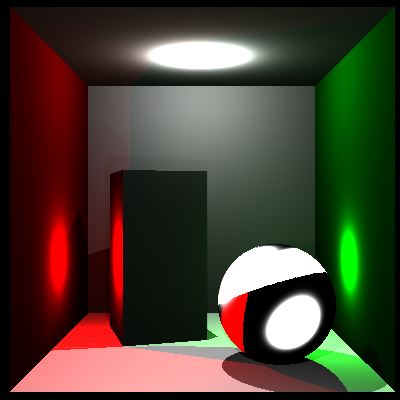
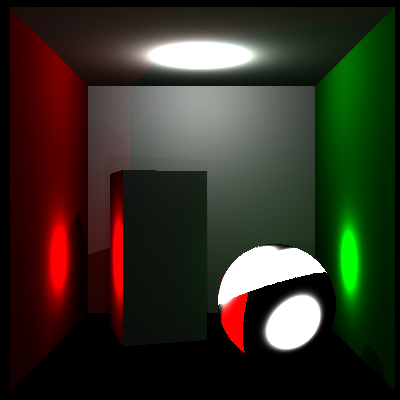
recRT

Changed region(s): [[0.03, 0.78, 0.99, 0.99]]

diff --git a/rt/integrators/recraytrace.cpp b/rt/integrators/recraytrace.cpp
@@ -8,34 +8,51 @@
 
 namespace rt
 {
-	RGBColor RecursiveRayTracingIntegrator::getRadiance(const Ray & ray) const
+	RGBColor RecursiveRayTracingIntegrator::getRadiance(const Ray & ray, int depth) const
 	{
-		Intersection intersection = this->world->scene->intersect(ray, MAX_DIST);
 		RGBColor color = RGBColor(0, 0, 0);
+		if (depth >= maxRecursionDepth)
+			return color;
+
+		Intersection intersection = this->world->scene->intersect(ray, MAX_DIST);
+
 		if (intersection)
 		{
 			Vector normal = intersection.normal().normalize();
 			if (dot(normal, ray.d.normalize()) > 0)
 				normal = -1.0f * normal;
 
-			auto solid = intersection.solid;
+			auto currentMaterial = intersection.solid->material;
+			auto outDir = ray.d.normalize();
 
-			for (auto lightSource : this->world->light)
+			if (currentMaterial->useSampling() == Material::Sampling::SAMPLING_NOT_NEEDED)
 			{
-				LightHit lightHit = lightSource->getLightHit(intersection.hitPoint());
+				for (auto lightSource : this->world->light)
+				{
+					LightHit lightHit = lightSource->getLightHit(intersection.hitPoint());
+					Vector inDir = lightHit.direction;
+					if (dot(inDir, normal) < 0)
+						continue;
 
-				if (dot(lightHit.direction, normal) < 0)
-					continue;
+					Ray shadowRay = Ray(intersection.hitPoint() + displacement * inDir, inDir);
+					Intersection shadowRayIntersection = this->world->scene->intersect(shadowRay, lightHit.distance);
+					if (shadowRayIntersection)
+						continue;
 
-				Ray shadowRay = Ray(intersection.hitPoint() + displacement * lightHit.direction, lightHit.direction);
-				Intersection shadowRayIntersection = this->world->scene->intersect(shadowRay, lightHit.distance);
-				if (shadowRayIntersection)
-					continue;
-
-				RGBColor reflected = solid->material->getReflectance(intersection.local(), normal, ray.d.normalize(), lightHit.direction);
-				color = color + reflected * lightSource->getIntensity(lightHit);
+					RGBColor reflected = currentMaterial->getReflectance(intersection.local(), normal, outDir, inDir);
+					color = color + reflected * lightSource->getIntensity(lightHit);
+				}
 			}
 
+			else if (currentMaterial->useSampling() == Material::Sampling::SAMPLING_ALL)
+			{
+				auto reflectance = currentMaterial->getSampleReflectance(intersection.local(), normal, outDir);
+				Vector inDir = reflectance.direction.normalize();
+				Ray shadowRay = Ray(intersection.hitPoint() + displacement * inDir, inDir);
+
+				RGBColor incomingLightColor = this->getRadiance(shadowRay, depth + 1);
+				color = incomingLightColor * reflectance.reflectance;
+			}
 		}
 
 		return color.clamp();

diff --git a/rt/integrators/castingdist.h b/rt/integrators/castingdist.h
@@ -15,7 +15,7 @@ class RGBColor;
 class RayCastingDistIntegrator : public Integrator {
 public:
     RayCastingDistIntegrator(World* world, const RGBColor& nearColor, float nearDist, const RGBColor& farColor, float farDist);
-    virtual RGBColor getRadiance(const Ray& ray) const;
+    virtual RGBColor getRadiance(const Ray& ray, int depth = 0) const;
 private:
     RGBColor nearColor, farColor;
     float nearDist, farDist;

diff --git a/rt/integrators/recraytrace.h b/rt/integrators/recraytrace.h
@@ -14,9 +14,10 @@ class Ray;
 class RGBColor;
 
 class RecursiveRayTracingIntegrator : public Integrator {
+	const int maxRecursionDepth = 6;
 public:
     RecursiveRayTracingIntegrator(World* world) : Integrator(world) {}
-    virtual RGBColor getRadiance(const Ray& ray) const;
+    virtual RGBColor getRadiance(const Ray& ray, int depth = 0) const;
 };
 
 }

diff --git a/rt/integrators/castingdist.cpp b/rt/integrators/castingdist.cpp
@@ -13,7 +13,7 @@ namespace rt
 		this->farDist = farDist;
 	}
 
-	RGBColor RayCastingDistIntegrator::getRadiance(const Ray & ray) const
+	RGBColor RayCastingDistIntegrator::getRadiance(const Ray & ray, int depth) const
 	{
 		Intersection intersection = this->world->scene->intersect(ray, MAX_DIST);
 		RGBColor colorValue = RGBColor(0, 0, 0);

diff --git a/rt/integrators/raytrace.cpp b/rt/integrators/raytrace.cpp
@@ -7,7 +7,7 @@
 
 namespace rt
 {
-	RGBColor RayTracingIntegrator::getRadiance(const Ray & ray) const
+	RGBColor RayTracingIntegrator::getRadiance(const Ray & ray, int depth) const
 	{
 		Intersection intersection = this->world->scene->intersect(ray, MAX_DIST);
 		RGBColor color = RGBColor(0, 0, 0);

diff --git a/rt/integrators/casting.h b/rt/integrators/casting.h
@@ -13,7 +13,7 @@ class RGBColor;
 class RayCastingIntegrator : public Integrator {
 public:
     RayCastingIntegrator(World* world) : Integrator(world) {}
-    virtual RGBColor getRadiance(const Ray& ray) const;
+    virtual RGBColor getRadiance(const Ray& ray, int depth = 0) const;
 };
 
 }

diff --git a/rt/integrators/casting.cpp b/rt/integrators/casting.cpp
@@ -4,7 +4,7 @@
 
 namespace rt
 {
-	RGBColor RayCastingIntegrator::getRadiance(const Ray& ray) const
+	RGBColor RayCastingIntegrator::getRadiance(const Ray& ray, int depth) const
 	{
 		Intersection intersection = this->world->scene->intersect(ray, MAX_DIST);
 		float grayColor = 0;

diff --git a/rt/integrators/raytrace.h b/rt/integrators/raytrace.h
@@ -15,7 +15,7 @@ class RGBColor;
 class RayTracingIntegrator : public Integrator {
 public:
 	RayTracingIntegrator(World* world) : Integrator(world) {}
-	virtual RGBColor getRadiance(const Ray& ray) const;
+	virtual RGBColor getRadiance(const Ray& ray, int depth = 0) const;
 };
 
 }

diff --git a/rt/integrators/integrator.h b/rt/integrators/integrator.h
@@ -13,7 +13,7 @@ class Integrator {
 public:
 	Integrator() {}
 	Integrator(World* world) : world(world) {}
-	virtual RGBColor getRadiance(const Ray& ray) const = 0;
+	virtual RGBColor getRadiance(const Ray& ray, int depth = 0) const = 0;
 protected:
 	World* world;
 };
